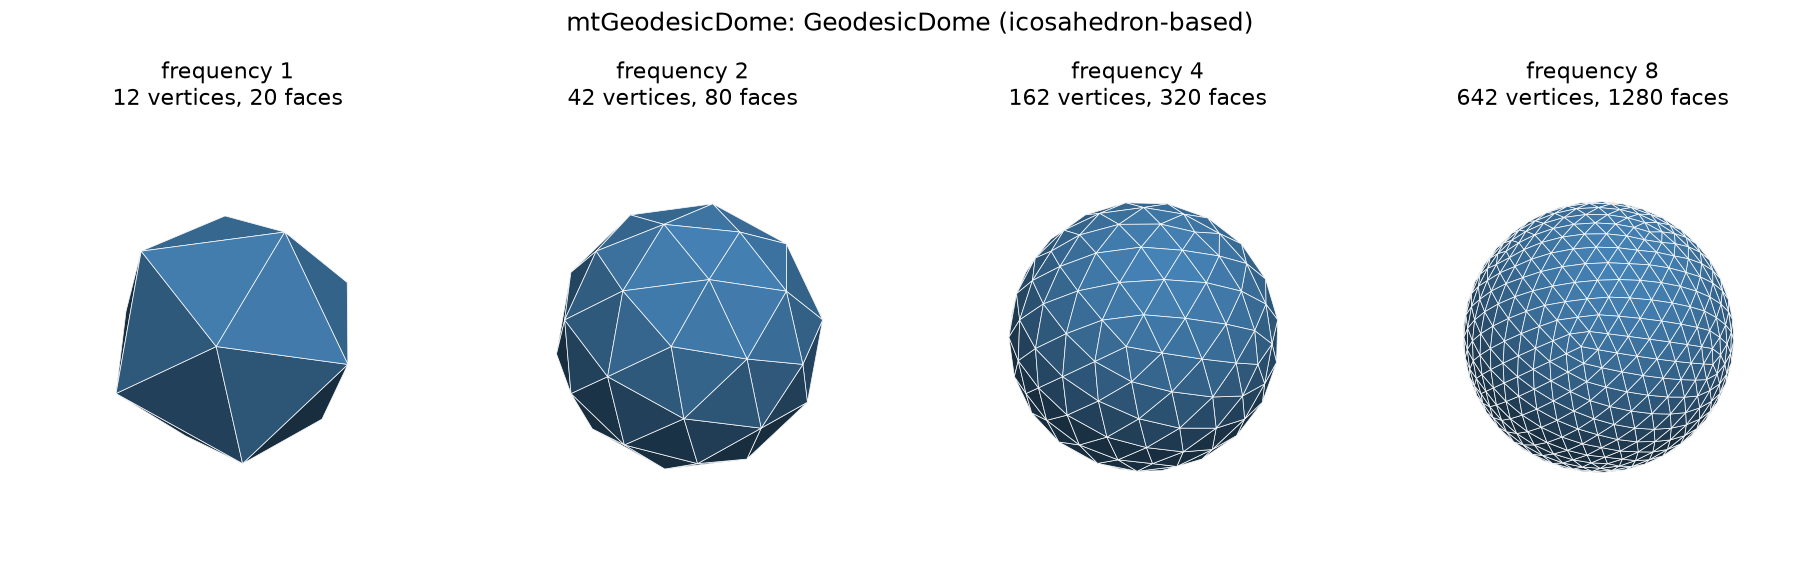
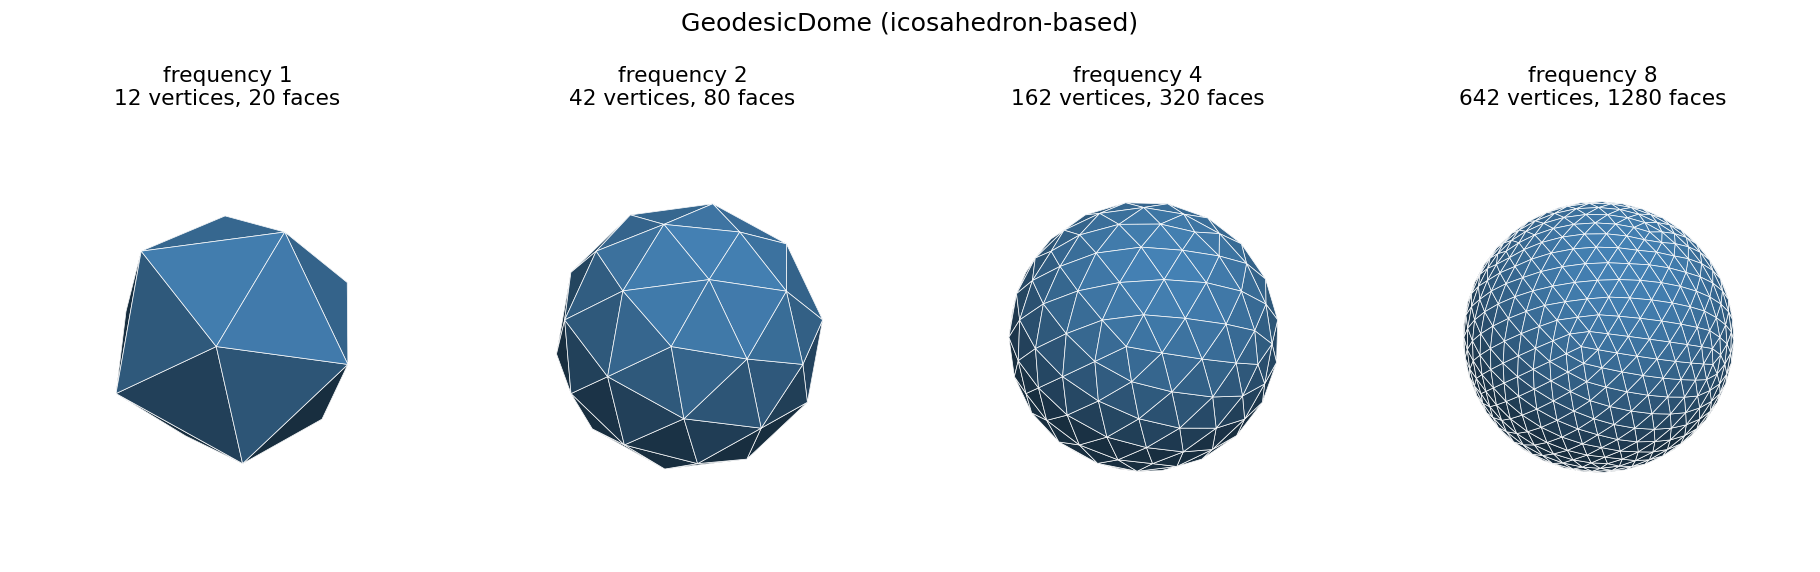
updated.

diff --git a/examples/02_plot_dome_3d.py b/examples/02_plot_dome_3d.py
@@ -37,7 +37,7 @@ for n, f in enumerate(FREQUENCIES, start=1):
     ax.set_axis_off()
     ax.set_title(f'frequency {f}\n{len(points)} vertices, {len(faces)} faces')
 
-fig.suptitle('GeodesicDome: GeodesicDome (icosahedron-based)', fontsize=14)
+fig.suptitle('GeodesicDome (icosahedron-based)', fontsize=14)
 fig.subplots_adjust(left=0, right=1, bottom=0, top=0.80, wspace=0)
 path = output_path('02_domes_3d.png')
 fig.savefig(path, dpi=130)
